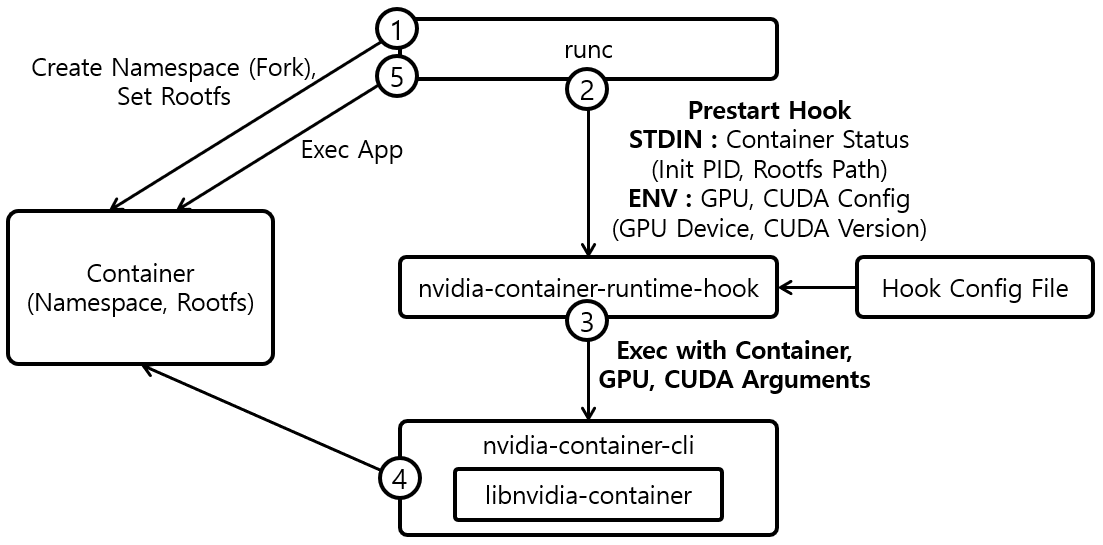
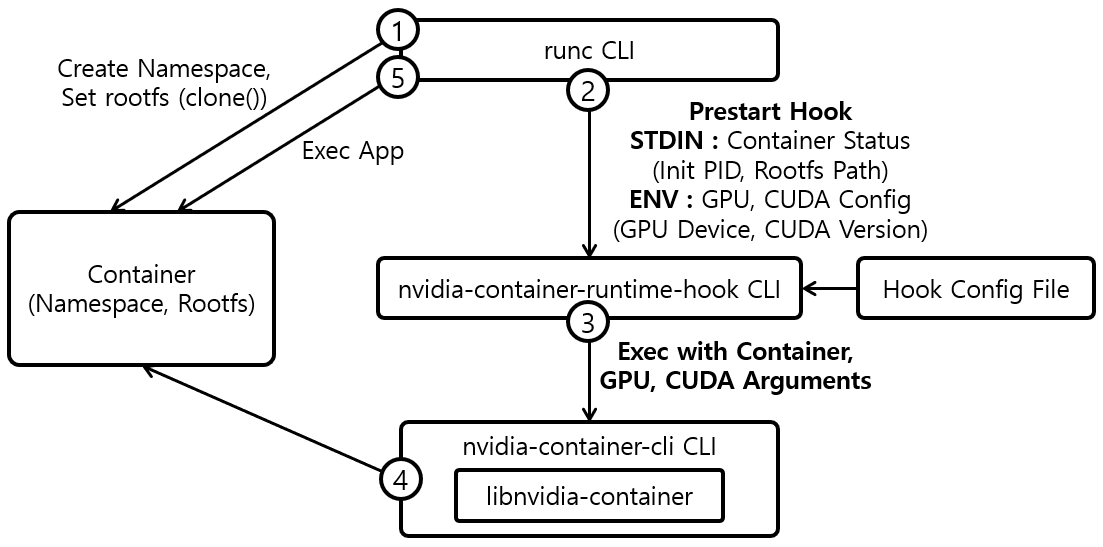
Update

diff --git a/_docs/theory_analysis/Container_NVIDIA_CUDA_GPU.md b/_docs/theory_analysis/Container_NVIDIA_CUDA_GPU.md
@@ -11,9 +11,17 @@ Container에게 NVIDIA CUDA GPU를 제공하는 기법을 분석한다.
 
 ### 1. Container NVIDIA CUDA GPU
 
+NVIDIA CUDA GPU을 Container에게 제공하여 Container가 CUDA를 이용할 수 있는 환경을 구성할 수 있다. Docker 19.03 Version에서는 추가된 GPU Opiton을 이용하여 Container에게 NVIDIA CUDA GPU를 제공할 수 있다. Container에게 NVIDIA CUDA GPU를 제공하는 방법으로 **OCI Runtime Spec**을 이용한다.
+
 ![[그림 1] CUDA Container OCI Runtime Spec]({{site.baseurl}}/images/theory_analysis/Container_NVIDA_CUDA_GPU/CUDA_Container_Runtime_Spec.PNG){: width="600px"}
 
-![[그림 2] CUDA Container Init]({{site.baseurl}}/images/theory_analysis/Container_NVIDA_CUDA_GPU/CUDA_Container_Init.PNG){: width="600px"}
+[그림 1]은 Docker GPU Option을 이용하여 Container를 생성시 생성되는 OCI Runtime Spec을 나타내고 있다. Docker는 GPU Option을 발견하면 OCI Runtime Spec의 Prestart Hook에 nvidia-container-runtime-hook CLI을 실행하기 위한 설정 내용을 추가하고, Container의 Env에는 GPU, CUDA 관련 설정 정보를 저장한다. Prestart Hook의 Argument는 prestart로 고정된다. Prestart Hook의 Env는 Container의 Env 정보를 그대로 가져와 설정하기 때문에 Docker가 Container의 Env에 추가한 GPU, CUDA 관련 설정 정보가 그대로 Prestart Hook의 Env에 저장된다. Env에는 Container가 이용할 GPU Device List, GPU Capability, CUDA Version, CUDA Library 경로등의 정보가 포함되어 있다.
+
+![[그림 2] CUDA Container Init]({{site.baseurl}}/images/theory_analysis/Container_NVIDA_CUDA_GPU/CUDA_Container_Init.PNG){: width="700px"}
+
+[그림 2]는 [그림 1]에 생성된 OCI Runtime Spec을 바탕으로 runc가 Container를 생성하는 과정을 나타내고 있다. runc는 Container를 위한 Namespace 생성 및 rootfs을 설정하기 위해 clone()을 통해서 Container Init Process를 생성하고, 생성된 Container Init Process의 PID를 가져온다. 그 후 runc는 Prestart Hook의 내용처럼 GPU, CUDA 관련 Env와 함께 nvidia-container-runtime-hook을 실행하고, OCI Runtime Spec에 따라 nvidia-container-runtime-hook의 STDIN을 통해서 Contianer Init PID, rootfs Path와 같은 Container 상태 정보를 전달한다. nvidia-container-runtime-hook은 전달받은 Container, GPU, CUDA 정보를 nvidia-container-cli의 Parameter로 넘겨 nvidia-container-cli을 실행한다. 
+
+nvidia-container-cli은 Parameter로 전달받은 Container, GPU, CUDA 정보와 libnvidia-container를 이용하여 Container가 NVIDIA CUDA GPU을 이용할 수 있도록 설정한다. nvidia-container-cli가 Container의 NVIDIA CUDA GPU를 실제로 설정하는 주체이고,   nvidia-container-runtime-hook은 OCI Runtime Spec과 nvidia-container-cli 사이를 연결해주는 Interface 역활만을 수행한다.
 
 ![[그림 3] CUDA Container Stack]({{site.baseurl}}/images/theory_analysis/Container_NVIDA_CUDA_GPU/CUDA_Container_Stack.PNG){: width="700px"}
 
